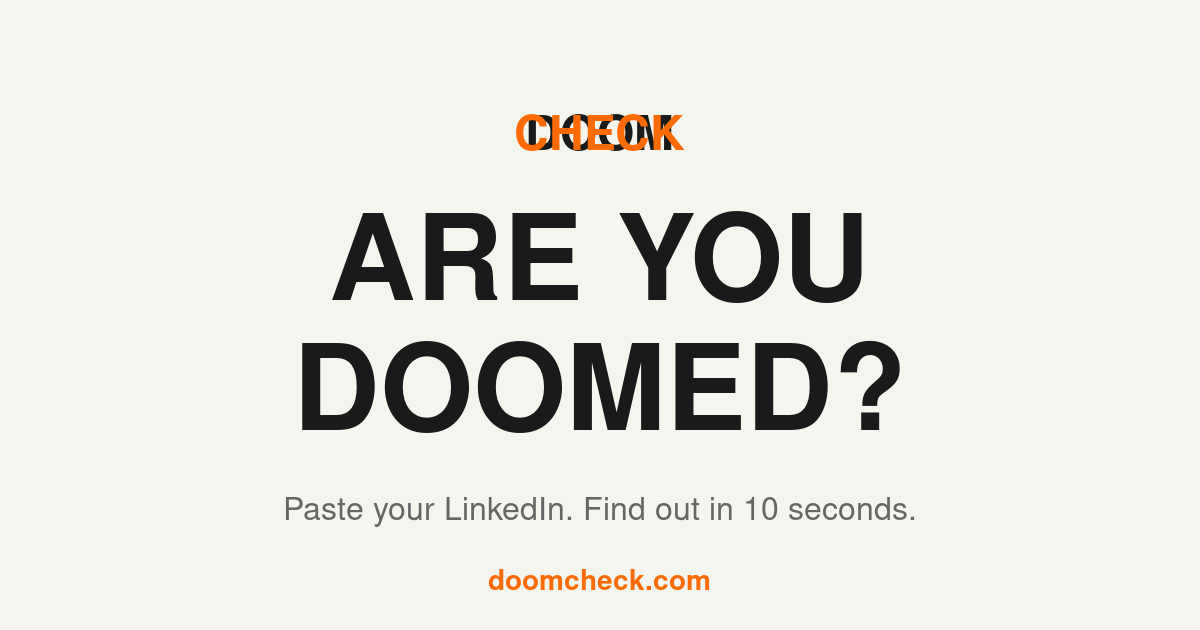
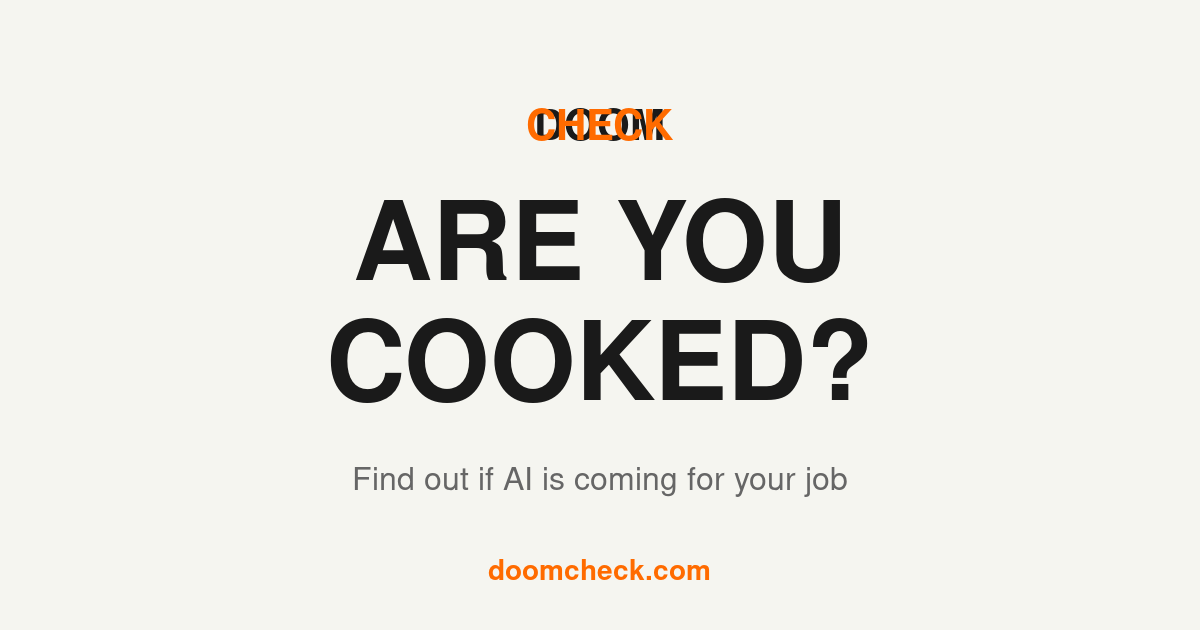
fix: update OG image + meta for job-title flow
- 'ARE YOU COOKED?' headline
- Remove LinkedIn references
- 5 seconds messaging

diff --git a/app/layout.tsx b/app/layout.tsx
@@ -2,12 +2,12 @@ import type { Metadata } from "next"
 import "./globals.css"
 
 export const metadata: Metadata = {
-  title: "Are You Doomed? | AI Job Risk Calculator",
-  description: "300 million jobs will be affected by AI. Is yours one of them? Paste your LinkedIn and find out in 10 seconds.",
+  title: "Are You Cooked? | AI Job Risk Calculator",
+  description: "300 million jobs will be affected by AI. Enter your job title and find out if you're cooked in 5 seconds.",
   metadataBase: new URL('https://doomcheck.com'),
   openGraph: {
-    title: "Are You Doomed? | AI Job Risk Calculator",
-    description: "300 million jobs will be affected by AI. Is yours one of them? Paste your LinkedIn and find out in 10 seconds.",
+    title: "Are You Cooked? | AI Job Risk Calculator",
+    description: "300 million jobs will be affected by AI. Enter your job title and find out if you're cooked in 5 seconds.",
     type: "website",
     siteName: "DoomCheck",
     images: [
@@ -21,8 +21,8 @@ export const metadata: Metadata = {
   },
   twitter: {
     card: "summary_large_image",
-    title: "Are You Doomed?",
-    description: "300 million jobs will be affected by AI. Is yours one of them?",
+    title: "Are You Cooked?",
+    description: "Find out if AI is coming for your job. Takes 5 seconds.",
     images: ["/og-image.png"],
   },
 }
